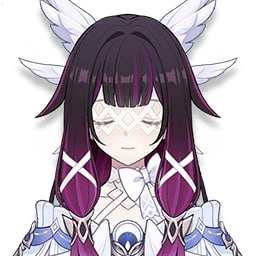
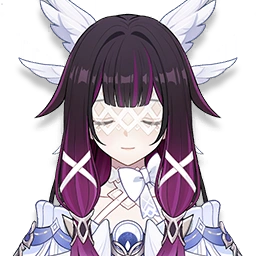
+ talents

diff --git a/index.html b/index.html
@@ -67,7 +67,7 @@
 		<p class="obs">Assumes the character is level 90.</p>
 		<div class="ascension-wrapper">
 			<div class="gacha-art">
-				<img src="images/Columbina_gacha_art.jpeg" alt="Columbina Gacha art">
+				<img src="images/Columbina_gacha_art.webp" alt="Columbina Gacha art">
 			</div>
 			<div class="namecard">
 				<img src="images/Columbina_namecard.jpeg" alt="Columbina namecard">
@@ -115,14 +115,14 @@
 			<a href="#prefarming">Prefarming guide</a>
 		</h1>
 		<p class="obs">Assumes the character is getting triple crowned.<br>* Contains leaks and assumptions, as of
-			02-12-2025.</p>
+			03-12-2025.</p>
 		<div class="prefarm-wrapper">
 			<div class="character-materials-wrapper">
 				<h2>
 					Columbina
 				</h2>
 				<div class="item-image">
-					<img src="images/Columbina_icon.png" alt="Columbina icon">
+					<img src="images/Columbina_icon.webp" alt="Columbina icon">
 				</div>
 				<div class="materials-wrapper">
 					<div class="individual-material purple">
@@ -239,7 +239,7 @@
 					</div>
 					<div class="individual-material gold">
 						<div class="material-image">
-							<img src="images/unknown.png" alt="">
+							<img src="images/UI_ItemIcon_113081.webp" alt="">
 						</div>
 						<div class="material-qty">
 							<p>18</p>
@@ -260,11 +260,11 @@
 					Nocturne of the Hidden Veil
 				</h2>
 				<div class="item-image">
-					<img src="images/Nocturne_of_the_Hidden_Veil.jpeg" alt="Columbina signature weapon">
+					<img src="images/Nocturne_of_the_Hidden_Veil.webp" alt="Columbina signature weapon">
 				</div>
 				<div class="signature-stats">
 					<p>542 ATK</p>
-					<p>88.2%  CD</p>
+					<p>88.2% CD</p>
 				</div>
 				<ul class="signature-description">
 					<li>Increase Max HP by 10%.</li>
@@ -345,7 +345,8 @@
 					</div>
 					<div class="individual-material green">
 						<div class="material-image">
-							<img src="images/SunderedGloryoftheFarNorthScions.png" alt="Sundered Glory of the Far North Scions">
+							<img src="images/SunderedGloryoftheFarNorthScions.png"
+								alt="Sundered Glory of the Far North Scions">
 						</div>
 						<div class="material-qty">
 							<p>5</p>
@@ -353,7 +354,8 @@
 					</div>
 					<div class="individual-material blue">
 						<div class="material-image">
-							<img src="images/UnyieldingDelusionoftheFarNorthScions.png" alt="Unyielding Delusion of the Far North Scions">
+							<img src="images/UnyieldingDelusionoftheFarNorthScions.png"
+								alt="Unyielding Delusion of the Far North Scions">
 						</div>
 						<div class="material-qty">
 							<p>14</p>
@@ -369,7 +371,8 @@
 					</div>
 					<div class="individual-material gold">
 						<div class="material-image">
-							<img src="images/AureateRadianceoftheFarNorthScions.png" alt="Aureate Radiance of the Far North Scions">
+							<img src="images/AureateRadianceoftheFarNorthScions.png"
+								alt="Aureate Radiance of the Far North Scions">
 						</div>
 						<div class="material-qty">
 							<p>6</p>
@@ -390,47 +393,71 @@
 		<!-- TALENTS -->
 		<div class="talents-megawrapper">
 			<h1 id="talents"><a href="#talents">Talents</a></h1>
-			<p class="obs">Assumes the character is getting triple crowned.<br>Last updated 02-12-2025.</p>
+			<p class="obs">Assumes the character is getting triple crowned.<br>Last updated 03-12-2025.</p>
 			<div class="talents-wrapper">
 				<div class="talent-sub-wrapper">
 					<div class="talent-name">
 						<img src="images/Skill_A_Catalyst_MD.png" alt="Normal Attack">
-						<h2>??? (Lv. 10)</h2>
+						<h2>Moondew Cascade (Lv. 10)</h2>
 					</div>
 					<div class="talent-description">
 						<h3 class="talent-sub">
 							Normal Attack
 						</h3>
-						<p>???</p>
+						<p>Summons Moonlit Tides, performing up to 3 attacks that deal <span class="hydro">Hydro
+								DMG</span>.</p>
 						<h3 class="talent-sub">
 							Charged Attack
 						</h3>
-						<p>???</p>
+						<p>Consumes a certain amount of Stamina to deal <span class="hydro">AoE Hydro DMG</span> after a
+							short casting time.
+							<br>If you have at least 1 <b>Verdant Dew</b>, Columbina's Charged Attacks will be replaced
+							with the
+							special Charged Attack <b>Moondew Cleanse</b>, which will not consume Stamina: Consume 1
+							Verdant
+							Dew to deal 3 instances of <span class="dendro">AoE Dendro DMG</span> to opponents in front.
+							This DMG is considered
+							Lunar-Bloom DMG.
+						</p>
 						<h3 class="talent-sub">
 							Plunge Attack
 						</h3>
-						<p>???</p>
+						<p>Plunges towards the ground from mid-air, damaging all opponents in her path. Deals <span
+								class="hydro">AoE Hydro
+								DMG</span> upon impact with the ground.</p>
 					</div>
 					<div class="talent-MV-wrapper">
 						<div class="talent-MV">
 							<span class="MV-name">1-Hit DMG</span>
-							<span class="MV-number">? %</span>
+							<span class="MV-number">84.2%</span>
 						</div>
 						<div class="talent-MV">
 							<span class="MV-name">2-Hit DMG</span>
-							<span class="MV-number">? %</span>
+							<span class="MV-number">65.9%</span>
 						</div>
 						<div class="talent-MV">
 							<span class="MV-name">3-Hit DMG</span>
-							<span class="MV-number">? %</span>
+							<span class="MV-number">105.3%</span>
+						</div>
+						<div class="talent-MV">
+							<span class="MV-name">Charged Attack DMG</span>
+							<span class="MV-number">208.9%</span>
+						</div>
+						<div class="talent-MV">
+							<span class="MV-name">Charged Attack Stamina Cost</span>
+							<span class="MV-number">50</span>
+						</div>
+						<div class="talent-MV">
+							<span class="MV-name">Verdant Dew Charged Attack DMG</span>
+							<span class="MV-number">2.27% Max HP ×3</span>
 						</div>
 						<div class="talent-MV">
 							<span class="MV-name">Plunge DMG</span>
-							<span class="MV-number">? %</span>
+							<span class="MV-number">112.3%</span>
 						</div>
 						<div class="talent-MV">
 							<span class="MV-name">Low/High Plunge DMG</span>
-							<span class="MV-number">? % / ? %</span>
+							<span class="MV-number">225% / 281%</span>
 						</div>
 					</div>
 					<div class="talent-video">
@@ -443,70 +470,93 @@
 				<div class="talent-sub-wrapper">
 					<div class="talent-name">
 						<img src="images/unknown.png" alt="Skill">
-						<h2>E - ? (Lv. 10)</h2>
+						<h2>E - Eternal Tides (Lv. 10)</h2>
 					</div>
 					<div class="talent-description">
-						<p>???</p>
-						<h3 class="talent-sub">
-							Tap
-						</h3>
-						<p>???</p>
-						<h3 class="talent-sub">
-							Hold
-						</h3>
-						<p>???</p>
+						<p>Awaken Moonbound Tides, dealing <span class="hydro">AoE Hydro DMG</span> and summoning
+							<b>Gravity Ripple</b>.
+							<br><b>Gravity Ripple</b> will follow the active character on the field, while continuously
+							dealing
+							<span class="hydro">AoE Hydro DMG</span> to surrounding opponents. While Gravity Ripple is
+							on the field, and nearby
+							party members trigger Lunar reactions or inflict Lunar Reaction DMG, Columbina will accrue a
+							special <b>Gravity</b>. Once <b>Gravity</b> is accumulated to its limit, different types of
+							damage will be
+							dealt to enemies based on the type of Lunar Reaction that has accumulated the most
+							<b>Gravity</b>
+							for Columbina.
+						</p>
+						<p><i>The Eternal Moon's orbit guides the rise and fall of the tides. With a languid motion, the
+								goddess lets her hand fall, drawing forth a ripple across the Primordial Sea, the great
+								ocean, and numberless crowds.</i></p>
 					</div>
 					<div class="talent-MV-wrapper">
 						<div class="talent-MV">
-							<span class="MV-name">Press DMG</span>
-							<span class="MV-number">? %</span>
+							<span class="MV-name">Skill DMG</span>
+							<span class="MV-number">30.1% Max HP</span>
 						</div>
 						<div class="talent-MV">
-							<span class="MV-name">Hold DMG</span>
-							<span class="MV-number">? %</span>
+							<span class="MV-name">Moonreel Continuous DMG</span>
+							<span class="MV-number">16.8% Max HP</span>
 						</div>
 						<div class="talent-MV">
-							<span class="MV-name">Duration</span>
-							<span class="MV-number">? s</span>
+							<span class="MV-name">Moonreel: Lunar-Charged DMG</span>
+							<span class="MV-number">9.99% Max HP</span>
+						</div>
+						<div class="talent-MV">
+							<span class="MV-name">Moonreel: Lunar-Bloom DMG</span>
+							<span class="MV-number">3.6% Max HP × 5</span>
+						</div>
+						<div class="talent-MV">
+							<span class="MV-name">Moonreel: Lunar-Crystallize DMG</span>
+							<span class="MV-number">18.75% Max HP
+							</span>
+						</div>
+						<div class="talent-MV">
+							<span class="MV-name">Max Moonreel Charge</span>
+							<span class="MV-number">60</span>
+						</div>
+						<div class="talent-MV">
+							<span class="MV-name">Moonreel Duration</span>
+							<span class="MV-number">25s</span>
 						</div>
 						<div class="talent-MV">
 							<span class="MV-name">CD</span>
-							<span class="MV-number">? s</span>
+							<span class="MV-number">17s</span>
 						</div>
 					</div>
 				</div>
 				<div class="talent-sub-wrapper">
 					<div class="talent-name">
 						<img src="images/unknown.png" alt="Burst">
-						<h2>Q - ? (Lv. 10)</h2>
+						<h2>Q - Moonlit Melancholy (Lv. 10)</h2>
 					</div>
 					<div class="talent-description">
-						<p>???</p>
-						<h3 class="talent-sub">
-							Tap
-						</h3>
-						<p>???</p>
-						<h3 class="talent-sub">
-							Hold
-						</h3>
-						<p>???</p>
+						<p>Hills and tides unite under the silver light of a pristine new moon. Temporarily transforms
+							the surrounding terrain into <b>Lunar Domain</b>, dealing <span class="hydro">AoE Hydro DMG</span>.</p>
+							<p><i>In ancient times, people called the three messengers connecting the material world and the
+							universe "Inkonost," which means bird-like gods.</i></p>
 					</div>
 					<div class="talent-MV-wrapper">
 						<div class="talent-MV">
-							<span class="MV-name">Placeholder DMG</span>
-							<span class="MV-number">? %</span>
+							<span class="MV-name">Skill DMG</span>
+							<span class="MV-number">58% Max HP</span>
 						</div>
 						<div class="talent-MV">
-							<span class="MV-name">Duration</span>
-							<span class="MV-number">? s</span>
+							<span class="MV-name">Lunar Reaction DMG Bonus</span>
+							<span class="MV-number">40%</span>
+						</div>
+						<div class="talent-MV">
+							<span class="MV-name">Domain Duration</span>
+							<span class="MV-number">20s</span>
 						</div>
 						<div class="talent-MV">
 							<span class="MV-name">CD</span>
-							<span class="MV-number">? s</span>
+							<span class="MV-number">15s</span>
 						</div>
 						<div class="talent-MV">
 							<span class="MV-name">Energy Cost</span>
-							<span class="MV-number">?</span>
+							<span class="MV-number">60</span>
 						</div>
 					</div>
 				</div>

diff --git a/css/app.css b/css/app.css
@@ -123,8 +123,8 @@ header .audio-wrapper audio::-webkit-media-controls-panel { background-color: #f
 .filters ul li.active-filter { background-color: rgba(44, 67, 94, 0.8); }
 
 .talents-wrapper, .passives-wrapper, .constellations-wrapper { display: grid; grid-gap: 20px; margin: 20px 0 30px; }
-.talents-wrapper .talent-sub-wrapper, .talents-wrapper .passives-sub-wrapper, .talents-wrapper .constellations-sub-wrapper, .passives-wrapper .talent-sub-wrapper, .passives-wrapper .passives-sub-wrapper, .passives-wrapper .constellations-sub-wrapper, .constellations-wrapper .talent-sub-wrapper, .constellations-wrapper .passives-sub-wrapper, .constellations-wrapper .constellations-sub-wrapper { background-color: rgba(28, 42, 59, 0.8); border-radius: 10px; display: grid; grid-template-columns: repeat(1, 1fr); grid-template-areas: "title" "description" "details" "video"; grid-gap: 20px; flex-flow: column; padding: 20px; }
-@media (min-width: 768px) { .talents-wrapper .talent-sub-wrapper, .talents-wrapper .passives-sub-wrapper, .talents-wrapper .constellations-sub-wrapper, .passives-wrapper .talent-sub-wrapper, .passives-wrapper .passives-sub-wrapper, .passives-wrapper .constellations-sub-wrapper, .constellations-wrapper .talent-sub-wrapper, .constellations-wrapper .passives-sub-wrapper, .constellations-wrapper .constellations-sub-wrapper { grid-template-columns: repeat(3, 1fr); grid-template-areas: "title title title" "description description details" "description description video"; } }
+.talents-wrapper .talent-sub-wrapper, .talents-wrapper .passives-sub-wrapper, .talents-wrapper .constellations-sub-wrapper, .passives-wrapper .talent-sub-wrapper, .passives-wrapper .passives-sub-wrapper, .passives-wrapper .constellations-sub-wrapper, .constellations-wrapper .talent-sub-wrapper, .constellations-wrapper .passives-sub-wrapper, .constellations-wrapper .constellations-sub-wrapper { background-color: rgba(28, 42, 59, 0.8); border-radius: 10px; display: grid; grid-template-columns: repeat(1, 1fr); grid-template-areas: "title" "description" "details" "video"; grid-gap: 20px 40px; flex-flow: column; padding: 20px; }
+@media (min-width: 768px) { .talents-wrapper .talent-sub-wrapper, .talents-wrapper .passives-sub-wrapper, .talents-wrapper .constellations-sub-wrapper, .passives-wrapper .talent-sub-wrapper, .passives-wrapper .passives-sub-wrapper, .passives-wrapper .constellations-sub-wrapper, .constellations-wrapper .talent-sub-wrapper, .constellations-wrapper .passives-sub-wrapper, .constellations-wrapper .constellations-sub-wrapper { grid-template-columns: repeat(3, 1fr); grid-template-areas: "title title details" "description description details"; } }
 .talents-wrapper .talent-sub-wrapper .talent-name, .talents-wrapper .passives-sub-wrapper .talent-name, .talents-wrapper .constellations-sub-wrapper .talent-name, .passives-wrapper .talent-sub-wrapper .talent-name, .passives-wrapper .passives-sub-wrapper .talent-name, .passives-wrapper .constellations-sub-wrapper .talent-name, .constellations-wrapper .talent-sub-wrapper .talent-name, .constellations-wrapper .passives-sub-wrapper .talent-name, .constellations-wrapper .constellations-sub-wrapper .talent-name { grid-area: title; display: flex; align-items: center; grid-gap: 10px; }
 .talents-wrapper .talent-sub-wrapper .talent-name img, .talents-wrapper .passives-sub-wrapper .talent-name img, .talents-wrapper .constellations-sub-wrapper .talent-name img, .passives-wrapper .talent-sub-wrapper .talent-name img, .passives-wrapper .passives-sub-wrapper .talent-name img, .passives-wrapper .constellations-sub-wrapper .talent-name img, .constellations-wrapper .talent-sub-wrapper .talent-name img, .constellations-wrapper .passives-sub-wrapper .talent-name img, .constellations-wrapper .constellations-sub-wrapper .talent-name img { max-height: 50px; }
 .talents-wrapper .talent-sub-wrapper .talent-description, .talents-wrapper .passives-sub-wrapper .talent-description, .talents-wrapper .constellations-sub-wrapper .talent-description, .passives-wrapper .talent-sub-wrapper .talent-description, .passives-wrapper .passives-sub-wrapper .talent-description, .passives-wrapper .constellations-sub-wrapper .talent-description, .constellations-wrapper .talent-sub-wrapper .talent-description, .constellations-wrapper .passives-sub-wrapper .talent-description, .constellations-wrapper .constellations-sub-wrapper .talent-description { grid-area: description; }
@@ -135,8 +135,8 @@ header .audio-wrapper audio::-webkit-media-controls-panel { background-color: #f
 .talents-wrapper .talent-sub-wrapper .talent-MV-wrapper .talent-MV, .talents-wrapper .passives-sub-wrapper .talent-MV-wrapper .talent-MV, .talents-wrapper .constellations-sub-wrapper .talent-MV-wrapper .talent-MV, .passives-wrapper .talent-sub-wrapper .talent-MV-wrapper .talent-MV, .passives-wrapper .passives-sub-wrapper .talent-MV-wrapper .talent-MV, .passives-wrapper .constellations-sub-wrapper .talent-MV-wrapper .talent-MV, .constellations-wrapper .talent-sub-wrapper .talent-MV-wrapper .talent-MV, .constellations-wrapper .passives-sub-wrapper .talent-MV-wrapper .talent-MV, .constellations-wrapper .constellations-sub-wrapper .talent-MV-wrapper .talent-MV { border-radius: 5px; display: flex; flex-flow: row; justify-content: space-between; background-color: rgba(6, 17, 30, 0.5); padding: 10px; margin-bottom: 5px; }
 .talents-wrapper .talent-sub-wrapper .talent-MV-wrapper .talent-MV:last-child, .talents-wrapper .passives-sub-wrapper .talent-MV-wrapper .talent-MV:last-child, .talents-wrapper .constellations-sub-wrapper .talent-MV-wrapper .talent-MV:last-child, .passives-wrapper .talent-sub-wrapper .talent-MV-wrapper .talent-MV:last-child, .passives-wrapper .passives-sub-wrapper .talent-MV-wrapper .talent-MV:last-child, .passives-wrapper .constellations-sub-wrapper .talent-MV-wrapper .talent-MV:last-child, .constellations-wrapper .talent-sub-wrapper .talent-MV-wrapper .talent-MV:last-child, .constellations-wrapper .passives-sub-wrapper .talent-MV-wrapper .talent-MV:last-child, .constellations-wrapper .constellations-sub-wrapper .talent-MV-wrapper .talent-MV:last-child { margin-bottom: 0; }
 .talents-wrapper .talent-sub-wrapper .talent-MV-wrapper .talent-MV span, .talents-wrapper .passives-sub-wrapper .talent-MV-wrapper .talent-MV span, .talents-wrapper .constellations-sub-wrapper .talent-MV-wrapper .talent-MV span, .passives-wrapper .talent-sub-wrapper .talent-MV-wrapper .talent-MV span, .passives-wrapper .passives-sub-wrapper .talent-MV-wrapper .talent-MV span, .passives-wrapper .constellations-sub-wrapper .talent-MV-wrapper .talent-MV span, .constellations-wrapper .talent-sub-wrapper .talent-MV-wrapper .talent-MV span, .constellations-wrapper .passives-sub-wrapper .talent-MV-wrapper .talent-MV span, .constellations-wrapper .constellations-sub-wrapper .talent-MV-wrapper .talent-MV span { font-size: 0.8em; }
-.talents-wrapper .talent-sub-wrapper .talent-MV-wrapper .talent-MV span.MV-name, .talents-wrapper .passives-sub-wrapper .talent-MV-wrapper .talent-MV span.MV-name, .talents-wrapper .constellations-sub-wrapper .talent-MV-wrapper .talent-MV span.MV-name, .passives-wrapper .talent-sub-wrapper .talent-MV-wrapper .talent-MV span.MV-name, .passives-wrapper .passives-sub-wrapper .talent-MV-wrapper .talent-MV span.MV-name, .passives-wrapper .constellations-sub-wrapper .talent-MV-wrapper .talent-MV span.MV-name, .constellations-wrapper .talent-sub-wrapper .talent-MV-wrapper .talent-MV span.MV-name, .constellations-wrapper .passives-sub-wrapper .talent-MV-wrapper .talent-MV span.MV-name, .constellations-wrapper .constellations-sub-wrapper .talent-MV-wrapper .talent-MV span.MV-name { text-align: left; max-width: 70%; }
-.talents-wrapper .talent-sub-wrapper .talent-MV-wrapper .talent-MV span.MV-number, .talents-wrapper .passives-sub-wrapper .talent-MV-wrapper .talent-MV span.MV-number, .talents-wrapper .constellations-sub-wrapper .talent-MV-wrapper .talent-MV span.MV-number, .passives-wrapper .talent-sub-wrapper .talent-MV-wrapper .talent-MV span.MV-number, .passives-wrapper .passives-sub-wrapper .talent-MV-wrapper .talent-MV span.MV-number, .passives-wrapper .constellations-sub-wrapper .talent-MV-wrapper .talent-MV span.MV-number, .constellations-wrapper .talent-sub-wrapper .talent-MV-wrapper .talent-MV span.MV-number, .constellations-wrapper .passives-sub-wrapper .talent-MV-wrapper .talent-MV span.MV-number, .constellations-wrapper .constellations-sub-wrapper .talent-MV-wrapper .talent-MV span.MV-number { text-align: right; }
+.talents-wrapper .talent-sub-wrapper .talent-MV-wrapper .talent-MV span.MV-name, .talents-wrapper .passives-sub-wrapper .talent-MV-wrapper .talent-MV span.MV-name, .talents-wrapper .constellations-sub-wrapper .talent-MV-wrapper .talent-MV span.MV-name, .passives-wrapper .talent-sub-wrapper .talent-MV-wrapper .talent-MV span.MV-name, .passives-wrapper .passives-sub-wrapper .talent-MV-wrapper .talent-MV span.MV-name, .passives-wrapper .constellations-sub-wrapper .talent-MV-wrapper .talent-MV span.MV-name, .constellations-wrapper .talent-sub-wrapper .talent-MV-wrapper .talent-MV span.MV-name, .constellations-wrapper .passives-sub-wrapper .talent-MV-wrapper .talent-MV span.MV-name, .constellations-wrapper .constellations-sub-wrapper .talent-MV-wrapper .talent-MV span.MV-name { text-align: left; max-width: 65%; }
+.talents-wrapper .talent-sub-wrapper .talent-MV-wrapper .talent-MV span.MV-number, .talents-wrapper .passives-sub-wrapper .talent-MV-wrapper .talent-MV span.MV-number, .talents-wrapper .constellations-sub-wrapper .talent-MV-wrapper .talent-MV span.MV-number, .passives-wrapper .talent-sub-wrapper .talent-MV-wrapper .talent-MV span.MV-number, .passives-wrapper .passives-sub-wrapper .talent-MV-wrapper .talent-MV span.MV-number, .passives-wrapper .constellations-sub-wrapper .talent-MV-wrapper .talent-MV span.MV-number, .constellations-wrapper .talent-sub-wrapper .talent-MV-wrapper .talent-MV span.MV-number, .constellations-wrapper .passives-sub-wrapper .talent-MV-wrapper .talent-MV span.MV-number, .constellations-wrapper .constellations-sub-wrapper .talent-MV-wrapper .talent-MV span.MV-number { text-align: right; max-width: 30%; }
 .talents-wrapper .talent-sub-wrapper .talent-video, .talents-wrapper .passives-sub-wrapper .talent-video, .talents-wrapper .constellations-sub-wrapper .talent-video, .passives-wrapper .talent-sub-wrapper .talent-video, .passives-wrapper .passives-sub-wrapper .talent-video, .passives-wrapper .constellations-sub-wrapper .talent-video, .constellations-wrapper .talent-sub-wrapper .talent-video, .constellations-wrapper .passives-sub-wrapper .talent-video, .constellations-wrapper .constellations-sub-wrapper .talent-video { display: none; /*display: flex;*/ justify-content: center; grid-area: video; }
 .talents-wrapper .passives-sub-wrapper, .talents-wrapper .constellations-sub-wrapper, .passives-wrapper .passives-sub-wrapper, .passives-wrapper .constellations-sub-wrapper, .constellations-wrapper .passives-sub-wrapper, .constellations-wrapper .constellations-sub-wrapper { display: flex; }
 

diff --git a/scss/_talents.scss b/scss/_talents.scss
@@ -16,15 +16,15 @@
             "description"
             "details"
             "video";
-        grid-gap: 20px;
+        grid-gap: 20px 40px;
         flex-flow: column;
         padding: 20px;
 
         @include mediumScreen {
             grid-template-columns: repeat(3, 1fr);
-            grid-template-areas: "title title title"
+            grid-template-areas: "title title details"
                 "description description details"
-                "description description video";
+                /*"description description video"*/;
         }
 
         .talent-name {
@@ -78,11 +78,12 @@
 
                     &.MV-name {
                         text-align: left;
-                        max-width: 70%;
+                        max-width: 65%;
                     }
 
                     &.MV-number {
                         text-align: right;
+                        max-width: 30%;
                     }
                 }
             }
